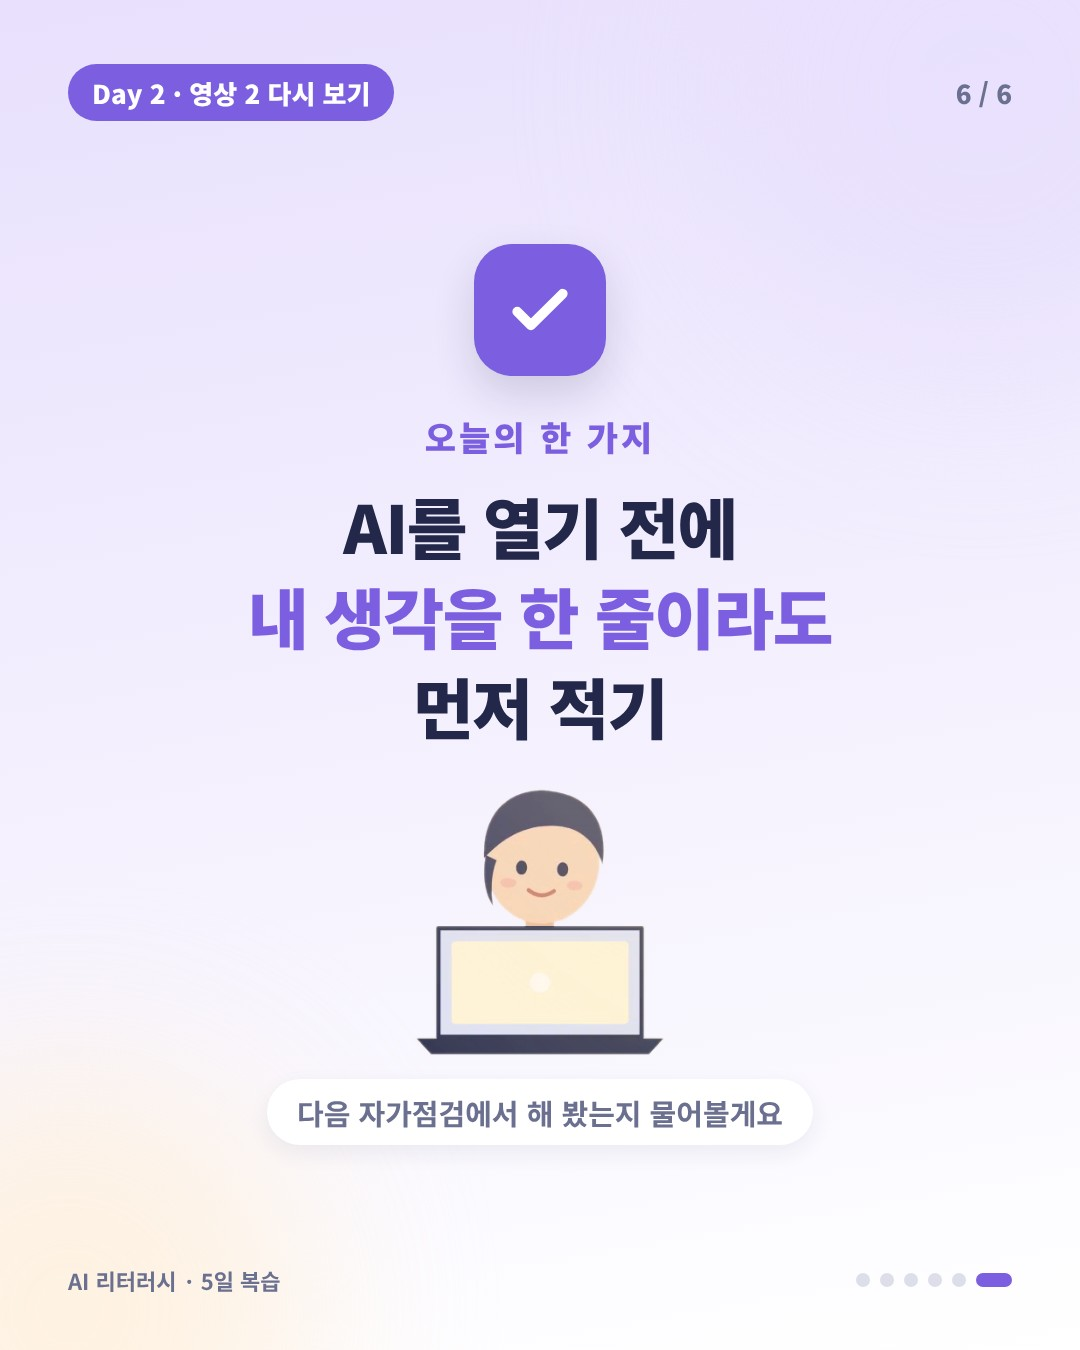
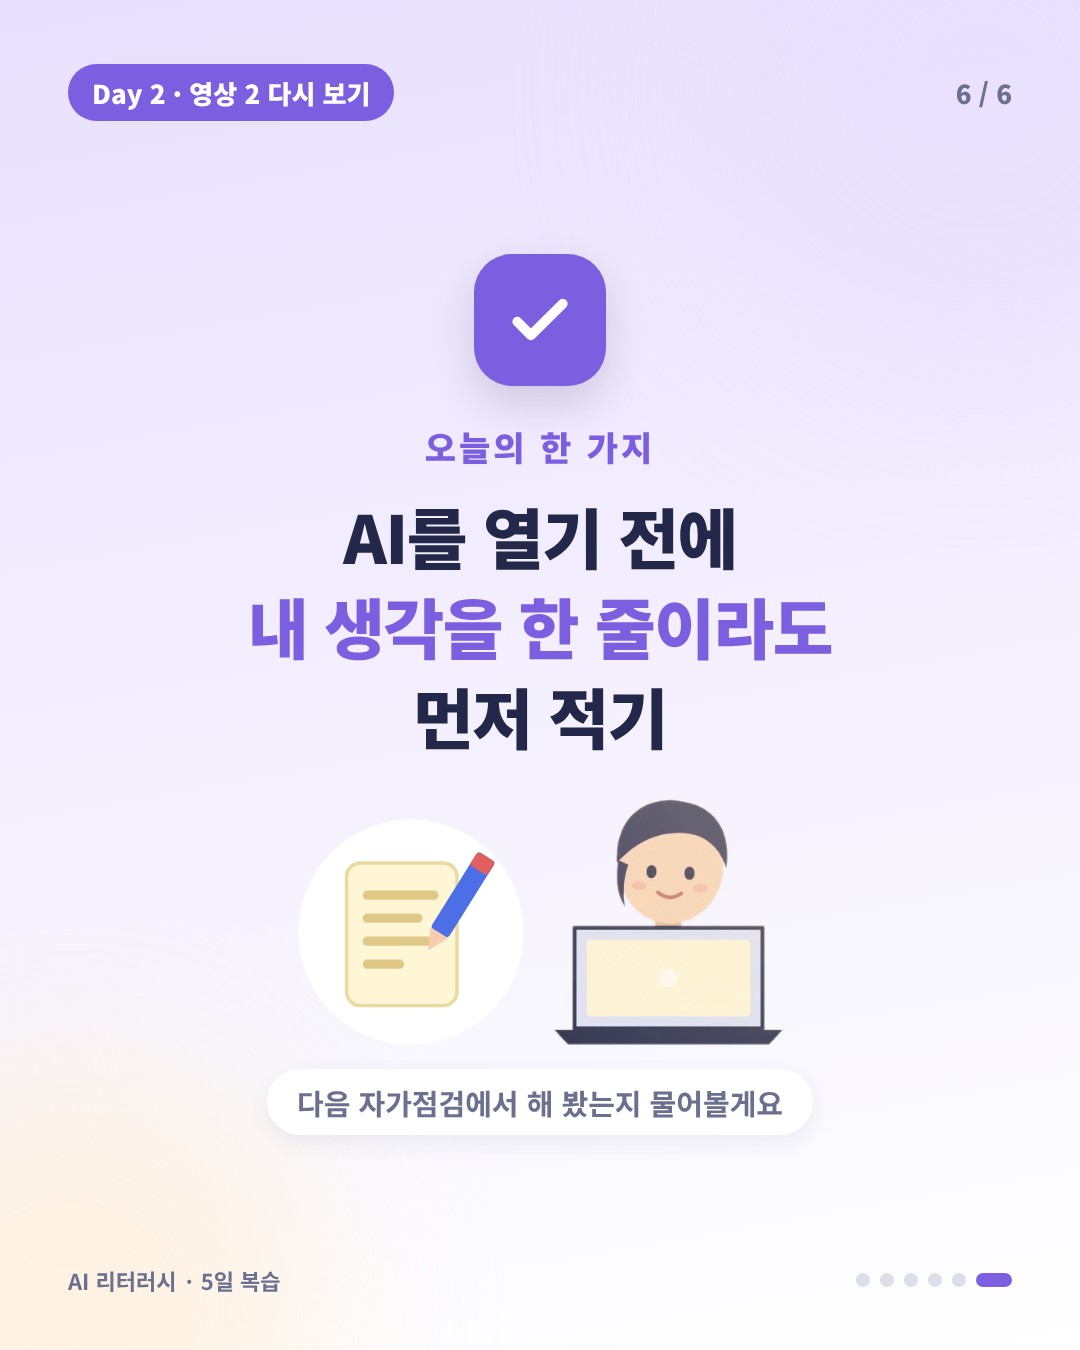
본실험 카드뉴스를 그림 중심으로 교체
카드마다 삽화와 도식을 넣고 글은 핵심만 남김. 파일럿 카드(cards/)는 변경 없음.

Claude-Session: https://claude.ai/code/session_01Ufc7Ys7s9SLRNt97tr6RfZ

diff --git a/daily-main.js b/daily-main.js
@@ -117,7 +117,7 @@ const cardTrial = {
     const show = () => {
       const [h, b] = D.cards[k];
       cn.innerHTML = CONFIG.CARD_IMAGES
-        ? `<img src="cards-main/day${DAY}_${k + 1}.jpg?v=1123g" alt="${esc(h + ". " + b.replace("{{change}}", ""))}">${b.includes("{{change}}") && myChange() ? `<div class="mychange">내가 적은 작은 변화: <b>${esc(myChange())}</b></div>` : ""}`
+        ? `<img src="cards-main/day${DAY}_${k + 1}.jpg?v=1123h" alt="${esc(h + ". " + b.replace("{{change}}", ""))}">${b.includes("{{change}}") && myChange() ? `<div class="mychange">내가 적은 작은 변화: <b>${esc(myChange())}</b></div>` : ""}`
         : `<div class="cn-in ${k === 0 ? "cover" : k === N - 1 ? "today" : ""}"><div class="cn-k">${k === 0 ? `Day ${DAY}` : k === N - 1 ? "오늘의 한 가지" : `${k} / ${N - 2}`}</div>
            <h2>${k === N - 1 ? "" : h}</h2><p>${b.replace("{{change}}", "")}</p>${b.includes("{{change}}") ? changeBox() : ""}</div>`;
       pos.textContent = `${k + 1} / ${N}`; prev.disabled = k === 0;

diff --git a/daily-main.html b/daily-main.html
@@ -18,6 +18,6 @@
 </head>
 <body>
 <div id="app"></div>
-<script src="daily-main.js?v=1123h"></script>
+<script src="daily-main.js?v=1123i"></script>
 </body>
 </html>
